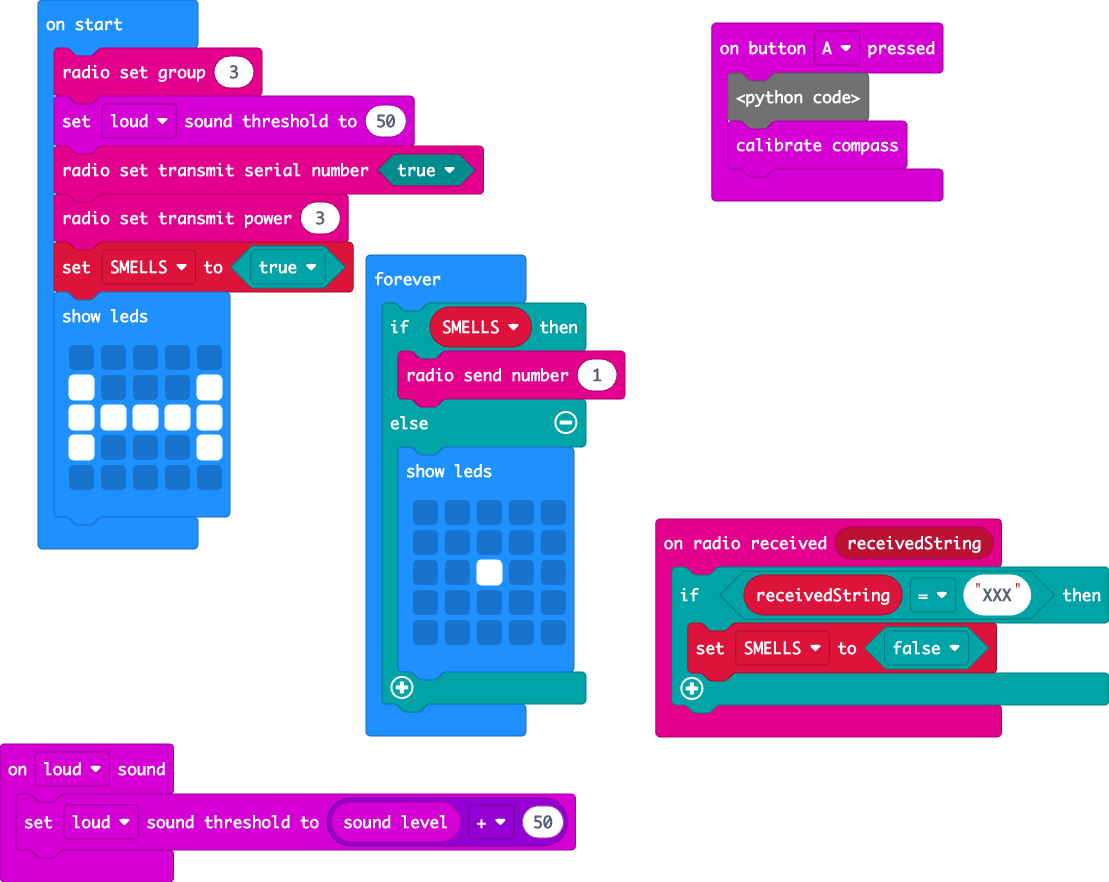
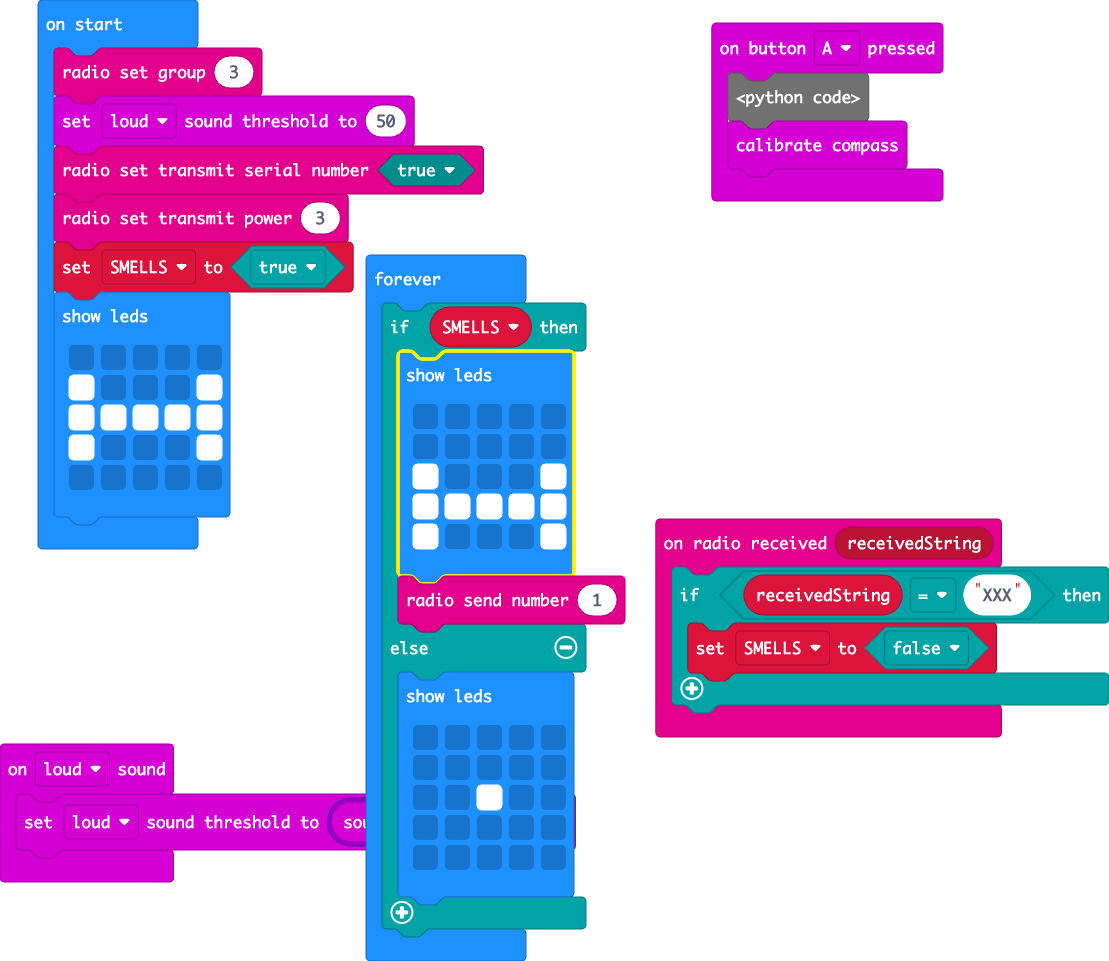
calibration for compass.

diff --git a/main.ts b/main.ts
@@ -31,6 +31,13 @@ basic.showLeds(`
     `)
 basic.forever(function () {
     if (SMELLS) {
+        basic.showLeds(`
+            . . . . .
+            . . . . .
+            # . . . #
+            # # # # #
+            # . . . #
+            `)
         radio.sendNumber(1)
     } else {
         basic.showLeds(`
